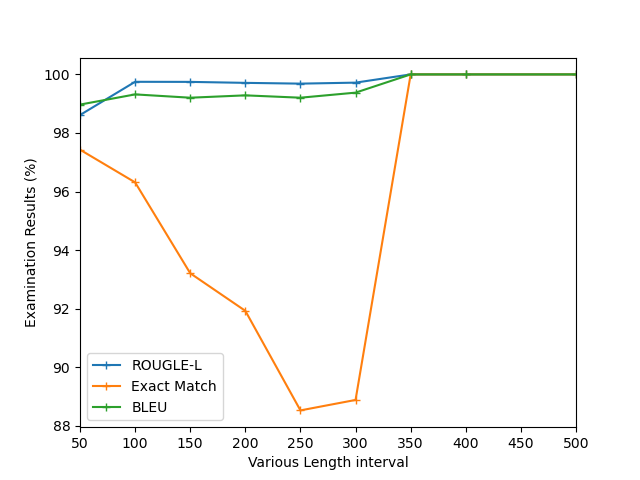
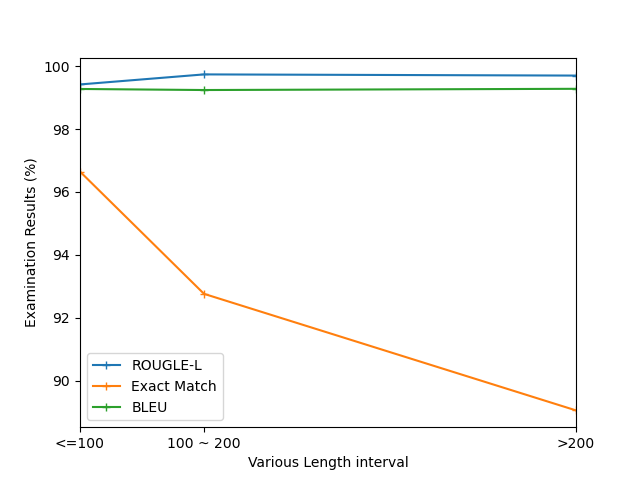
update model

diff --git a/plotGraph.py b/plotGraph.py
@@ -12,7 +12,8 @@ def multi_plot(rl, em, bleu,interval):
     # plt.bar(interval, bleu, 10, bottom=rl+em,color='#7BC8F6')
 
     # plt.suptitle('Evaluation with different intervals', fontsize = 15)
-    plt.xticks(np.arange(min(interval), max(interval)+1, 50.0))
+    my_xticks = ['<=100','100 ~ 200','>200']
+    plt.xticks(interval,my_xticks)
     plt.margins(x=0)
     # plt.legend(['ROUGLE-L','Exact Match','BLEU'])
     plt.legend()
@@ -23,15 +24,15 @@ def multi_plot(rl, em, bleu,interval):
 
 
 # training ptb on T5-small with different interval
-rl = np.array([98.6131, 99.7473, 99.7446, 99.7112, 99.6848, 99.7187, 100.0, 100.0, 100.0])
-em = np.array([97.4308, 96.3149, 93.2130, 91.9303, 88.5321, 88.8888, 100.0, 100.0, 100.0])
-bleu = np.array([98.9695, 99.3175, 99.2045, 99.2848, 99.2049, 99.3774, 100.0, 100.0, 100.0])
+rl = np.array([99.4167,99.736,99.6986])
+em = np.array([96.6470,92.7616,89.0566])
+bleu = np.array([99.2728,99.2393,99.2781])
 
 # training MNLI with different interval
 # rl = np.array([84.577,93.0629,94.4945,94.8156,95.0015,94.7083,90.3548,96.9072,90.1408])
 # em = np.array([0.0, 0.1686, 0.2551, 0.0, 0.0, 0.0, 0.0, 0.0, 0.0])
 # bleu = np.array([72.5129,83.3208,86.2580,86.8868,87.6011,86.6067,83.7559,87.1061,79.2631])
-interval = [50,100,150,200,250,300,350,400,500]
+interval = [100,200,500]
 
 # varing training size to evaluate MNLI
 # rl = [96.66,96.4118,96.2217,95.7589,95.2565,94.717,94.1502,93.6448,92.53,91.1125]

diff --git a/training_text.py b/training_text.py
@@ -579,7 +579,7 @@ def main():
         #
         # model_flag = '_lr_'+str(args.learning_rate)+'epoch_'+str(epoch)
         # store_model(accelerator, model, args.output_dir+model_flag, tokenizer)
-        model.load_state_dict(torch.load('/root/seq2seq/output_ptb/_lr_2e-05epoch_9/pytorch_model.bin'))
+        model.load_state_dict(torch.load('/root/seq2seq/output_dir/_lr_2e-05epoch_9/pytorch_model.bin'))
         '''evaluting after each epoch'''
         model.eval()
         if args.val_max_target_length is None:
